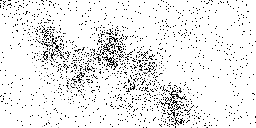
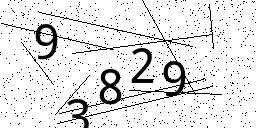
add: 線を加えた

diff --git a/src/lib.rs b/src/lib.rs
@@ -27,6 +27,15 @@ fn generate(text: String) -> ImageBuffer<Rgb<u8>, Vec<u8>> {
         let y = rand::random::<u32>() % 128;
         img.put_pixel(x, y, Rgb([0, 0, 0]));
     }
+    // Add some lines
+    for _ in 0..10 {
+        let x1 = rand::random::<u32>() % 256;
+        let y1 = rand::random::<u32>() % 128;
+        let x2 = rand::random::<u32>() % 256;
+        let y2 = rand::random::<u32>() % 128;
+        imageproc::drawing::draw_line_segment_mut(
+            &mut img, (x1 as f32, y1 as f32), (x2 as f32, y2 as f32), Rgb([0, 0, 0]));
+    }
     img
 }
 
